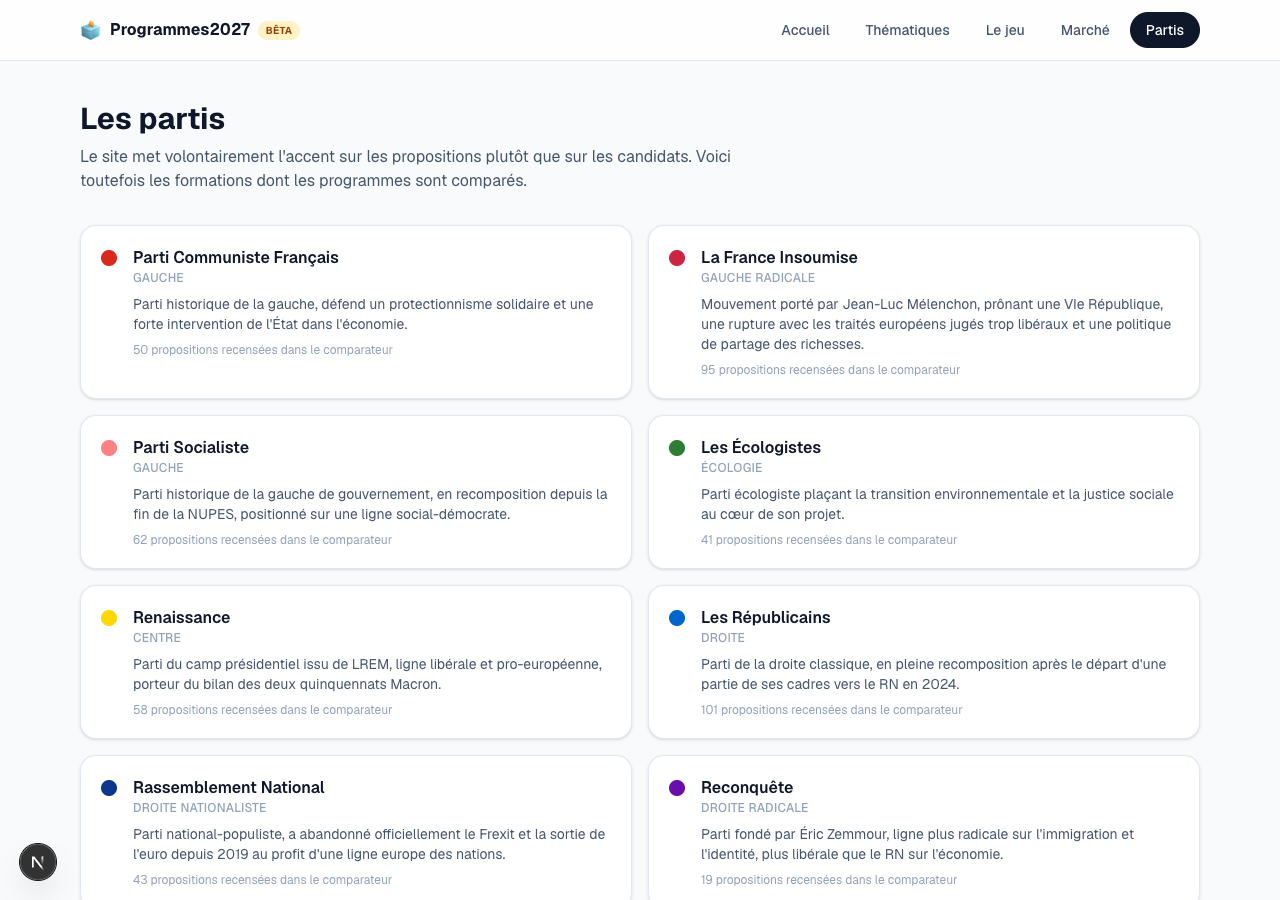
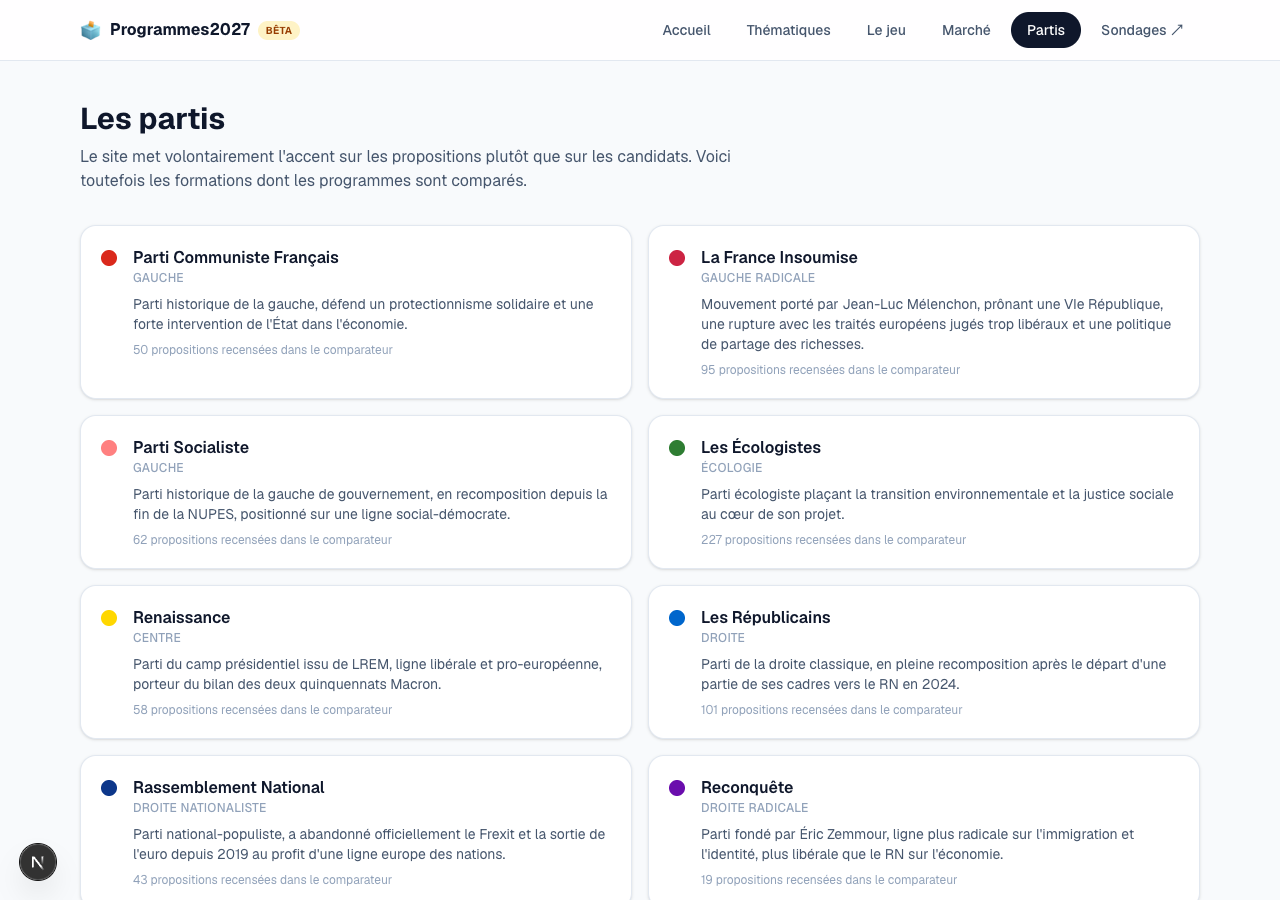
Add Sondages link in the navbar pointing to Sondoscope
Adds an external link to https://sondoscope.politique.workers.dev/ in
both the desktop and mobile nav menus, and refreshes screenshots to
reflect the updated menu.

diff --git a/src/components/NavBar.tsx b/src/components/NavBar.tsx
@@ -12,6 +12,8 @@ const links = [
   { href: "/partis", label: "Partis" },
 ];
 
+const SONDAGES_URL = "https://sondoscope.politique.workers.dev/";
+
 export function NavBar() {
   const pathname = usePathname();
   const [open, setOpen] = useState(false);
@@ -52,6 +54,14 @@ export function NavBar() {
               </Link>
             );
           })}
+          <a
+            href={SONDAGES_URL}
+            target="_blank"
+            rel="noopener noreferrer"
+            className="rounded-full px-4 py-2 text-sm font-medium text-slate-600 transition-colors hover:bg-slate-100"
+          >
+            Sondages ↗
+          </a>
         </nav>
 
         <button
@@ -86,6 +96,15 @@ export function NavBar() {
               </Link>
             );
           })}
+          <a
+            href={SONDAGES_URL}
+            target="_blank"
+            rel="noopener noreferrer"
+            onClick={() => setOpen(false)}
+            className="rounded-lg px-4 py-2.5 text-sm font-medium text-slate-600 hover:bg-slate-100"
+          >
+            Sondages ↗
+          </a>
         </nav>
       )}
     </header>
